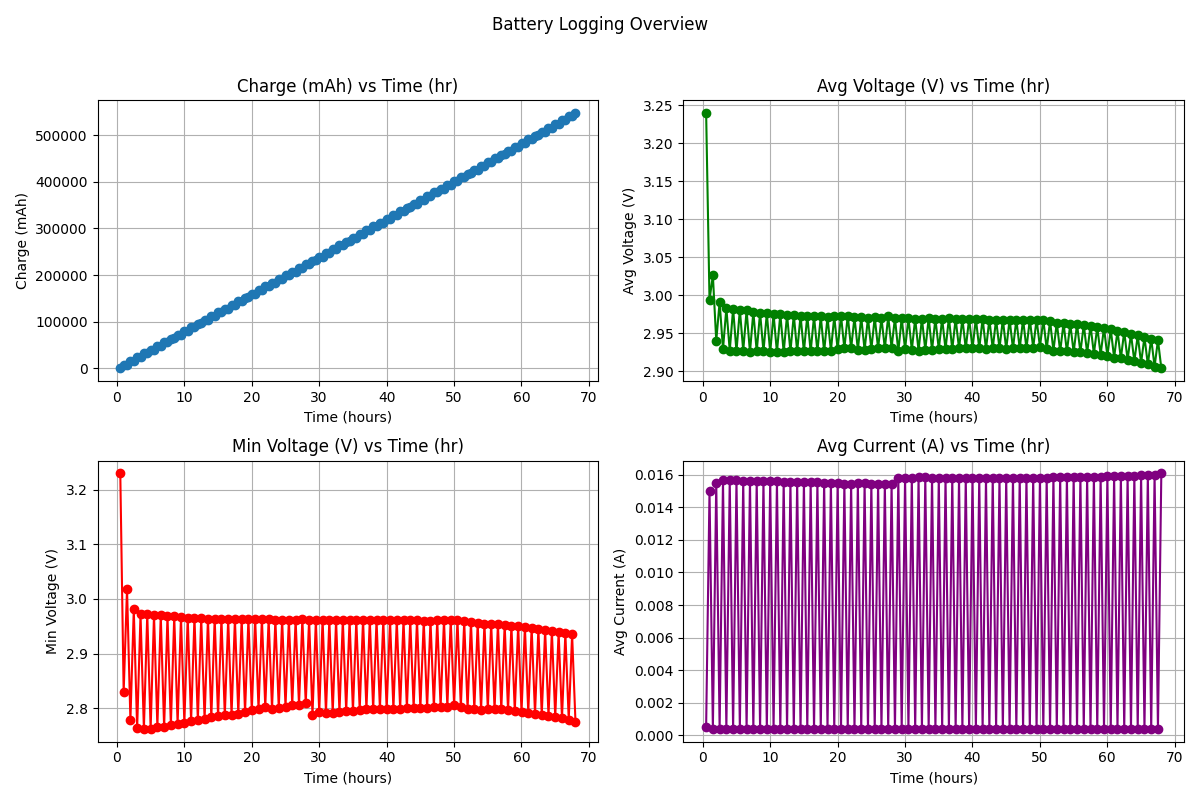
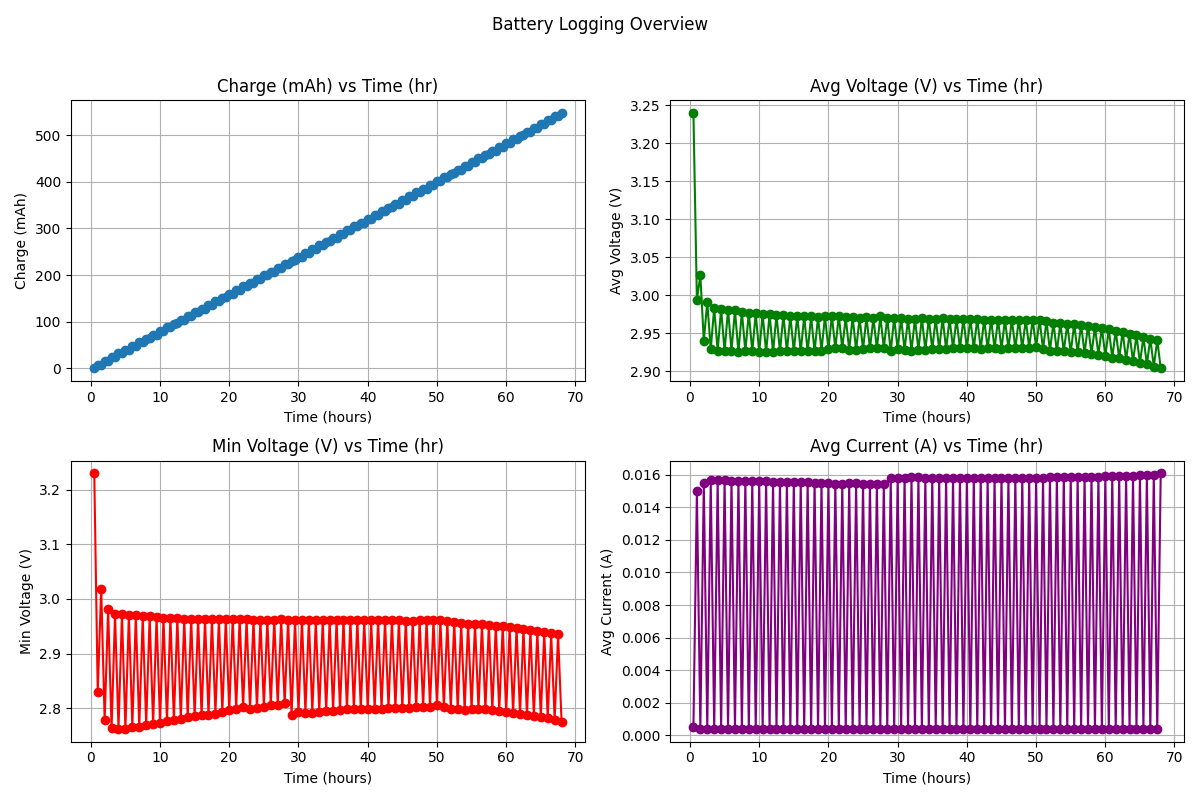
BE-1 JS data

diff --git a/plot_js_data.py b/plot_js_data.py
@@ -9,7 +9,7 @@ csv_filename = os.path.splitext(os.path.basename(csv_path))[0]
 
 # Convert units
 df['elapsed_time_hr'] = df['elapsed_time'] / 3600  # seconds to hours
-df['charge_mAh'] = df['charge_C'] * 1000 / 3.6     # C to mAh (1 C = 1 A·s; 1 mAh = 3.6 C)
+df['charge_mAh'] = df['charge_C'] / 3.6     # C to mAh (1 C = 1 A·s; 1 mAh = 3.6 C)
 
 # Create plots
 fig, axs = plt.subplots(2, 2, figsize=(12, 8))
